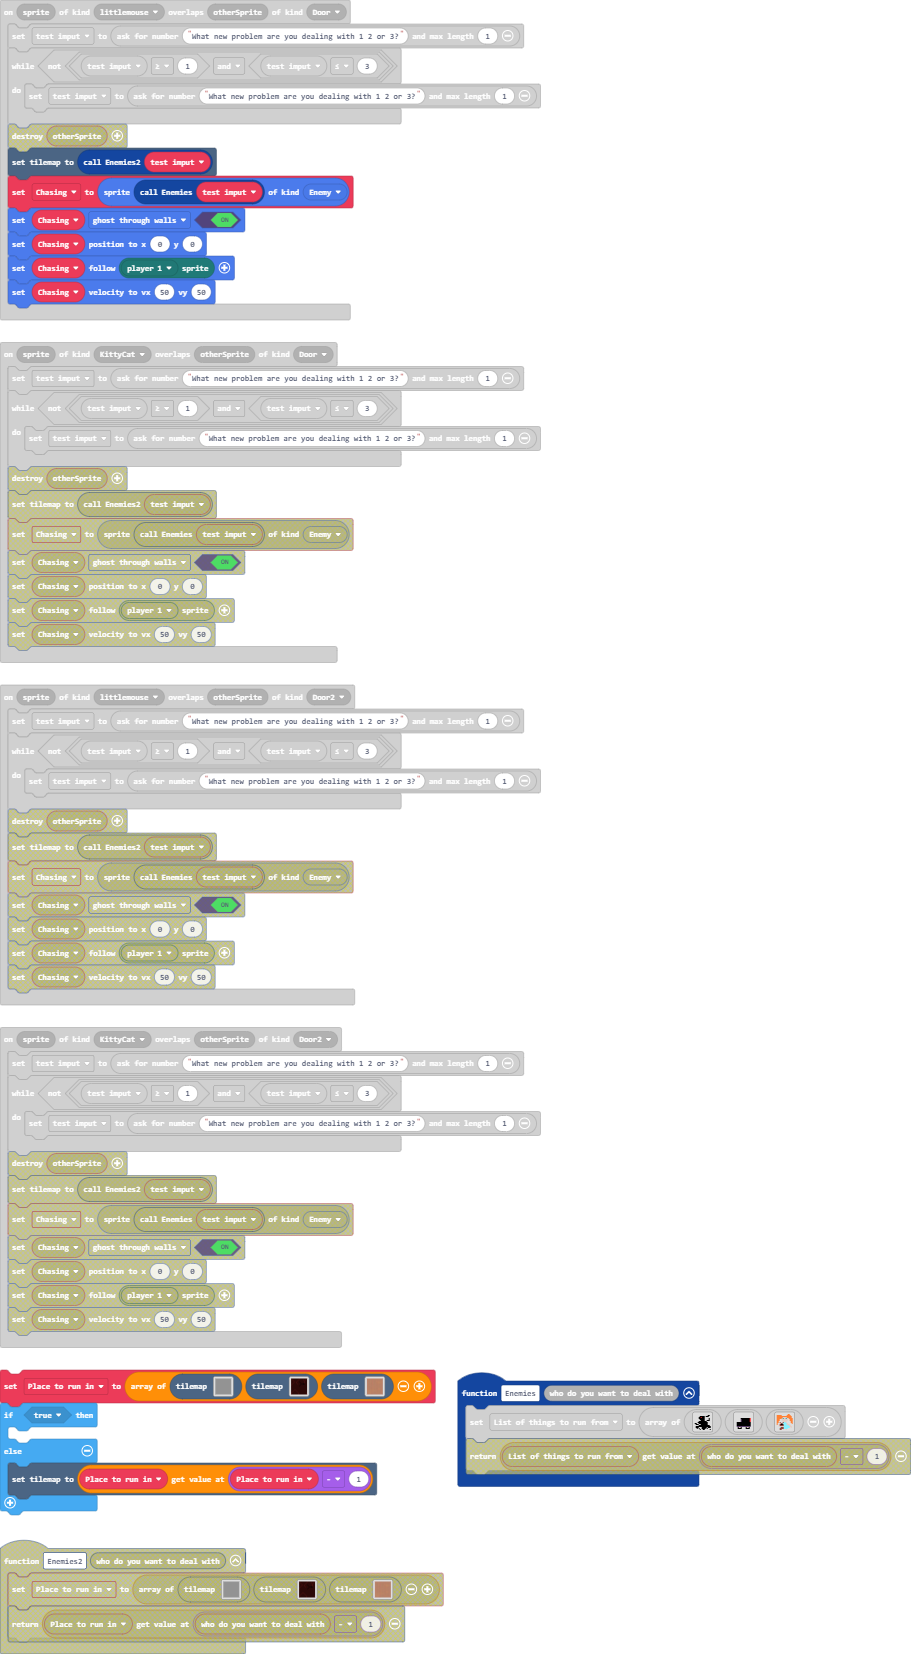
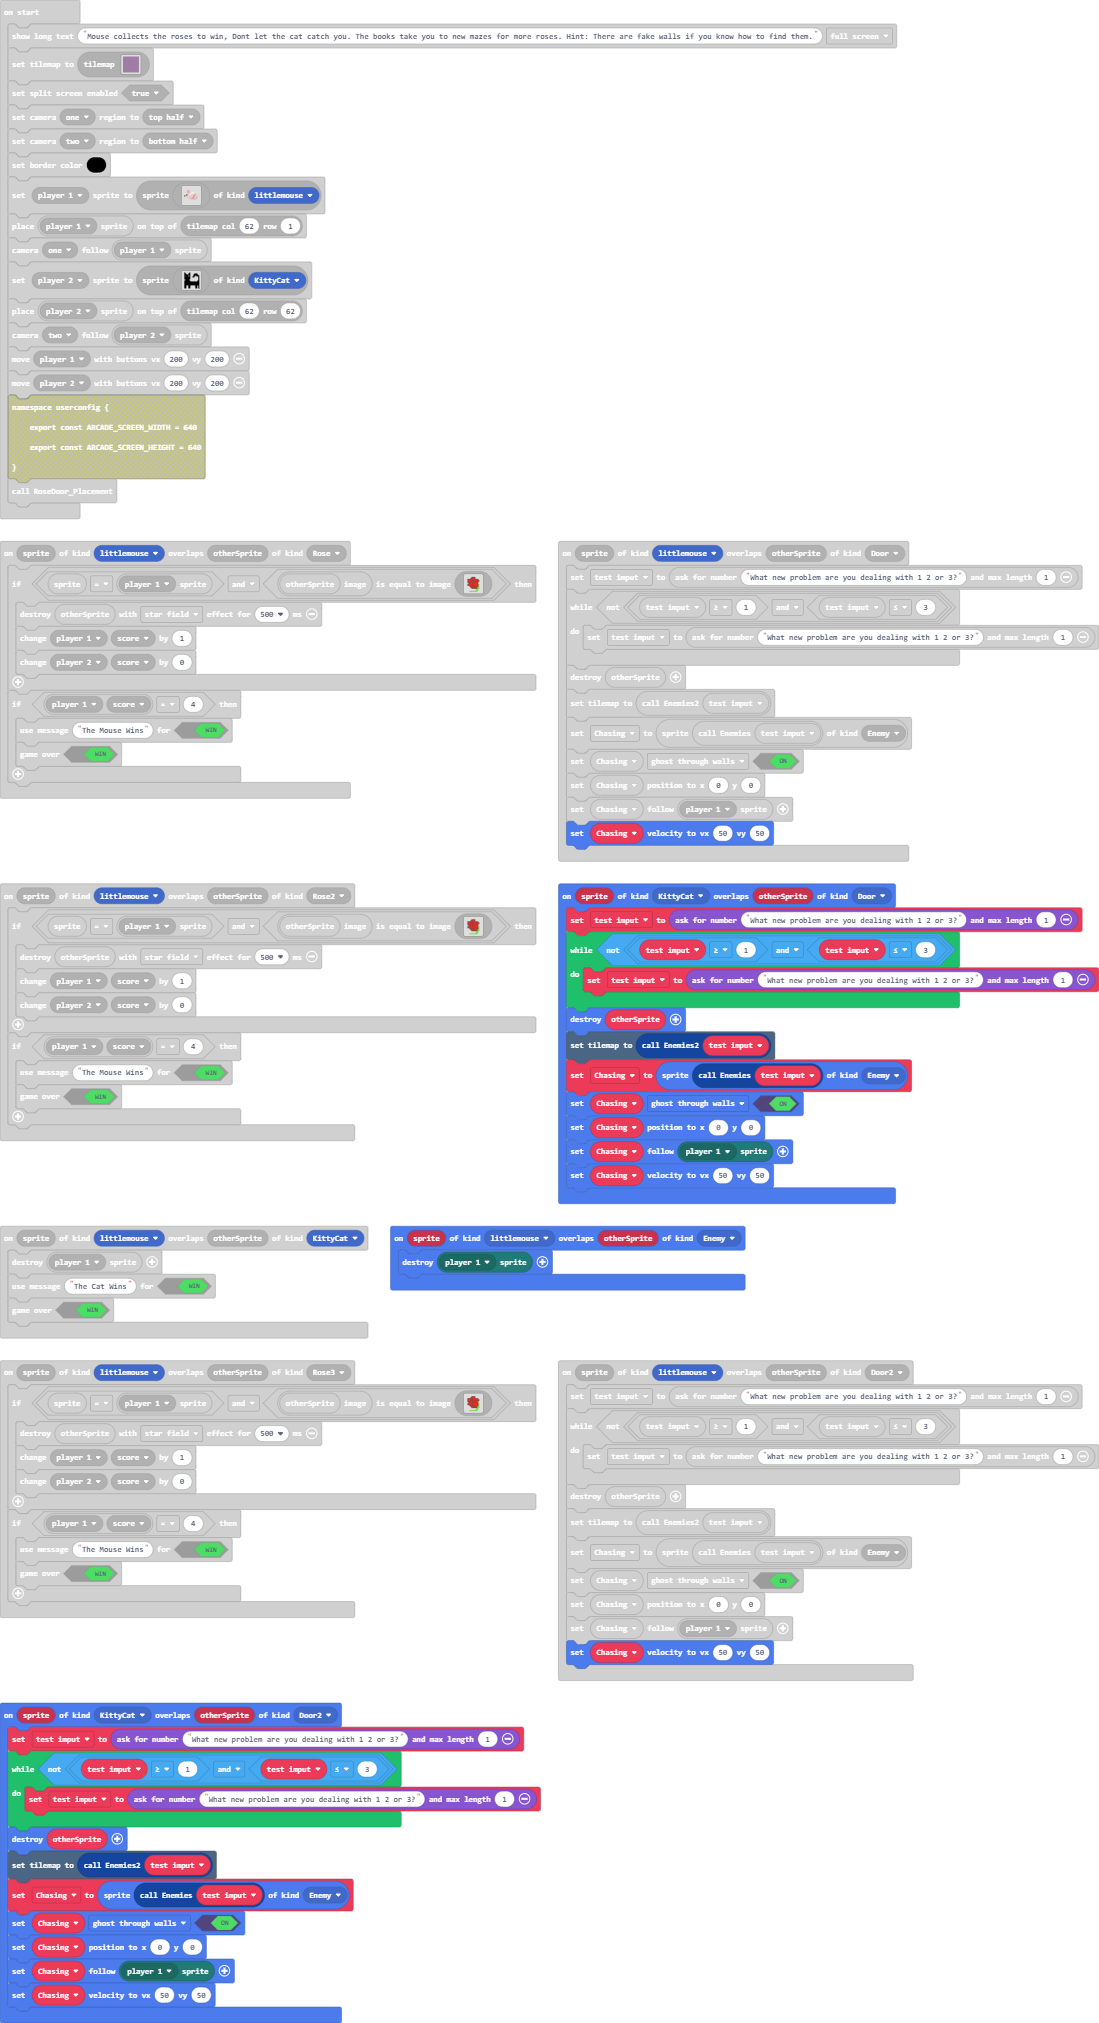
Restore '2/29/2024, 4:26:50 PM New game yay'

diff --git a/tilemap.g.ts b/tilemap.g.ts
@@ -561,101 +561,6 @@ namespace myTiles {
 . . . . . . . . . . . . . . . . 
 . . . . . . . . . . . . . . . . 
 `, [myTiles.transparency16], TileScale.Sixteen);
-            case "level18":
-            case "level18":return tiles.createTilemap(hex`1000100000000000000000000000000000000000000000000000000000000000000000000000000000000000000000000000000000000000000000000000000000000000000000000000000000000000000000000000000000000000000000000000000000000000000000000000000000000000000000000000000000000000000000000000000000000000000000000000000000000000000000000000000000000000000000000000000000000000000000000000000000000000000000000000000000000000000000000000000000000000000000000000000000000000000000000000000000000000000000000000000000000000000000000000000000000000`, img`
-. . . . . . . . . . . . . . . . 
-. . . . . . . . . . . . . . . . 
-. . . . . . . . . . . . . . . . 
-. . . . . . . . . . . . . . . . 
-. . . . . . . . . . . . . . . . 
-. . . . . . . . . . . . . . . . 
-. . . . . . . . . . . . . . . . 
-. . . . . . . . . . . . . . . . 
-. . . . . . . . . . . . . . . . 
-. . . . . . . . . . . . . . . . 
-. . . . . . . . . . . . . . . . 
-. . . . . . . . . . . . . . . . 
-. . . . . . . . . . . . . . . . 
-. . . . . . . . . . . . . . . . 
-. . . . . . . . . . . . . . . . 
-. . . . . . . . . . . . . . . . 
-`, [myTiles.transparency16], TileScale.Sixteen);
-            case "level19":
-            case "level19":return tiles.createTilemap(hex`1000100000000000000000000000000000000000000000000000000000000000000000000000000000000000000000000000000000000000000000000000000000000000000000000000000000000000000000000000000000000000000000000000000000000000000000000000000000000000000000000000000000000000000000000000000000000000000000000000000000000000000000000000000000000000000000000000000000000000000000000000000000000000000000000000000000000000000000000000000000000000000000000000000000000000000000000000000000000000000000000000000000000000000000000000000000000000`, img`
-. . . . . . . . . . . . . . . . 
-. . . . . . . . . . . . . . . . 
-. . . . . . . . . . . . . . . . 
-. . . . . . . . . . . . . . . . 
-. . . . . . . . . . . . . . . . 
-. . . . . . . . . . . . . . . . 
-. . . . . . . . . . . . . . . . 
-. . . . . . . . . . . . . . . . 
-. . . . . . . . . . . . . . . . 
-. . . . . . . . . . . . . . . . 
-. . . . . . . . . . . . . . . . 
-. . . . . . . . . . . . . . . . 
-. . . . . . . . . . . . . . . . 
-. . . . . . . . . . . . . . . . 
-. . . . . . . . . . . . . . . . 
-. . . . . . . . . . . . . . . . 
-`, [myTiles.transparency16], TileScale.Sixteen);
-            case "level20":
-            case "level20":return tiles.createTilemap(hex`1000100000000000000000000000000000000000000000000000000000000000000000000000000000000000000000000000000000000000000000000000000000000000000000000000000000000000000000000000000000000000000000000000000000000000000000000000000000000000000000000000000000000000000000000000000000000000000000000000000000000000000000000000000000000000000000000000000000000000000000000000000000000000000000000000000000000000000000000000000000000000000000000000000000000000000000000000000000000000000000000000000000000000000000000000000000000000`, img`
-. . . . . . . . . . . . . . . . 
-. . . . . . . . . . . . . . . . 
-. . . . . . . . . . . . . . . . 
-. . . . . . . . . . . . . . . . 
-. . . . . . . . . . . . . . . . 
-. . . . . . . . . . . . . . . . 
-. . . . . . . . . . . . . . . . 
-. . . . . . . . . . . . . . . . 
-. . . . . . . . . . . . . . . . 
-. . . . . . . . . . . . . . . . 
-. . . . . . . . . . . . . . . . 
-. . . . . . . . . . . . . . . . 
-. . . . . . . . . . . . . . . . 
-. . . . . . . . . . . . . . . . 
-. . . . . . . . . . . . . . . . 
-. . . . . . . . . . . . . . . . 
-`, [myTiles.transparency16], TileScale.Sixteen);
-            case "level21":
-            case "level21":return tiles.createTilemap(hex`1000100000000000000000000000000000000000000000000000000000000000000000000000000000000000000000000000000000000000000000000000000000000000000000000000000000000000000000000000000000000000000000000000000000000000000000000000000000000000000000000000000000000000000000000000000000000000000000000000000000000000000000000000000000000000000000000000000000000000000000000000000000000000000000000000000000000000000000000000000000000000000000000000000000000000000000000000000000000000000000000000000000000000000000000000000000000000`, img`
-. . . . . . . . . . . . . . . . 
-. . . . . . . . . . . . . . . . 
-. . . . . . . . . . . . . . . . 
-. . . . . . . . . . . . . . . . 
-. . . . . . . . . . . . . . . . 
-. . . . . . . . . . . . . . . . 
-. . . . . . . . . . . . . . . . 
-. . . . . . . . . . . . . . . . 
-. . . . . . . . . . . . . . . . 
-. . . . . . . . . . . . . . . . 
-. . . . . . . . . . . . . . . . 
-. . . . . . . . . . . . . . . . 
-. . . . . . . . . . . . . . . . 
-. . . . . . . . . . . . . . . . 
-. . . . . . . . . . . . . . . . 
-. . . . . . . . . . . . . . . . 
-`, [myTiles.transparency16], TileScale.Sixteen);
-            case "level22":
-            case "level22":return tiles.createTilemap(hex`1000100000000000000000000000000000000000000000000000000000000000000000000000000000000000000000000000000000000000000000000000000000000000000000000000000000000000000000000000000000000000000000000000000000000000000000000000000000000000000000000000000000000000000000000000000000000000000000000000000000000000000000000000000000000000000000000000000000000000000000000000000000000000000000000000000000000000000000000000000000000000000000000000000000000000000000000000000000000000000000000000000000000000000000000000000000000000`, img`
-. . . . . . . . . . . . . . . . 
-. . . . . . . . . . . . . . . . 
-. . . . . . . . . . . . . . . . 
-. . . . . . . . . . . . . . . . 
-. . . . . . . . . . . . . . . . 
-. . . . . . . . . . . . . . . . 
-. . . . . . . . . . . . . . . . 
-. . . . . . . . . . . . . . . . 
-. . . . . . . . . . . . . . . . 
-. . . . . . . . . . . . . . . . 
-. . . . . . . . . . . . . . . . 
-. . . . . . . . . . . . . . . . 
-. . . . . . . . . . . . . . . . 
-. . . . . . . . . . . . . . . . 
-. . . . . . . . . . . . . . . . 
-. . . . . . . . . . . . . . . . 
-`, [myTiles.transparency16], TileScale.Sixteen);
         }
         return null;
     })

diff --git a/main.ts b/main.ts
@@ -61,18 +61,20 @@ function Enemies (who_do_you_want_to_deal_with: number) {
         . . . e e e e 9 9 9 9 . . . . . 
         . . . e e . d . . d . . . . . . 
         `]
-    Place_to_run_in = [tilemap`level13`, tilemap`level15`, tilemap`level16`]
-    if (true) {
-    	
-    } else {
-        tiles.setCurrentTilemap(Place_to_run_in[Place_to_run_in - 1])
-    }
+    return List_of_things_to_run_from[who_do_you_want_to_deal_with - 1]
 }
 sprites.onOverlap(SpriteKind.littlemouse, SpriteKind.Door, function (sprite, otherSprite) {
     test_imput = game.askForNumber("What new problem are you dealing with 1 2 or 3?", 1)
     while (!(test_imput >= 1 && test_imput <= 3)) {
         test_imput = game.askForNumber("What new problem are you dealing with 1 2 or 3?", 1)
     }
+    sprites.destroy(otherSprite)
+    tiles.setCurrentTilemap(Enemies2(test_imput))
+    Chasing = sprites.create(Enemies(test_imput), SpriteKind.Enemy)
+    Chasing.setFlag(SpriteFlag.GhostThroughWalls, true)
+    Chasing.setPosition(0, 0)
+    Chasing.follow(mp.getPlayerSprite(mp.playerSelector(mp.PlayerNumber.One)))
+    Chasing.setVelocity(50, 50)
 })
 sprites.onOverlap(SpriteKind.littlemouse, SpriteKind.Rose2, function (sprite, otherSprite) {
     if (sprite == mp.getPlayerSprite(mp.playerSelector(mp.PlayerNumber.One)) && otherSprite.image.equals(img`
@@ -107,6 +109,13 @@ sprites.onOverlap(SpriteKind.littlemouse, SpriteKind.Door2, function (sprite, ot
     while (!(test_imput >= 1 && test_imput <= 3)) {
         test_imput = game.askForNumber("What new problem are you dealing with 1 2 or 3?", 1)
     }
+    sprites.destroy(otherSprite)
+    tiles.setCurrentTilemap(Enemies2(test_imput))
+    Chasing = sprites.create(Enemies(test_imput), SpriteKind.Enemy)
+    Chasing.setFlag(SpriteFlag.GhostThroughWalls, true)
+    Chasing.setPosition(0, 0)
+    Chasing.follow(mp.getPlayerSprite(mp.playerSelector(mp.PlayerNumber.One)))
+    Chasing.setVelocity(50, 50)
 })
 sprites.onOverlap(SpriteKind.littlemouse, SpriteKind.Enemy, function (sprite, otherSprite) {
     sprites.destroy(mp.getPlayerSprite(mp.playerSelector(mp.PlayerNumber.One)))
@@ -139,17 +148,35 @@ sprites.onOverlap(SpriteKind.littlemouse, SpriteKind.Rose, function (sprite, oth
         game.gameOver(true)
     }
 })
+function Enemies2 (who_do_you_want_to_deal_with: number) {
+    Place_to_run_in = [tilemap`level13`, tilemap`level15`, tilemap`level16`]
+    return Place_to_run_in[who_do_you_want_to_deal_with - 1]
+}
 sprites.onOverlap(SpriteKind.KittyCat, SpriteKind.Door, function (sprite, otherSprite) {
     test_imput = game.askForNumber("What new problem are you dealing with 1 2 or 3?", 1)
     while (!(test_imput >= 1 && test_imput <= 3)) {
         test_imput = game.askForNumber("What new problem are you dealing with 1 2 or 3?", 1)
     }
+    sprites.destroy(otherSprite)
+    tiles.setCurrentTilemap(Enemies2(test_imput))
+    Chasing = sprites.create(Enemies(test_imput), SpriteKind.Enemy)
+    Chasing.setFlag(SpriteFlag.GhostThroughWalls, true)
+    Chasing.setPosition(0, 0)
+    Chasing.follow(mp.getPlayerSprite(mp.playerSelector(mp.PlayerNumber.One)))
+    Chasing.setVelocity(50, 50)
 })
 sprites.onOverlap(SpriteKind.KittyCat, SpriteKind.Door2, function (sprite, otherSprite) {
     test_imput = game.askForNumber("What new problem are you dealing with 1 2 or 3?", 1)
     while (!(test_imput >= 1 && test_imput <= 3)) {
         test_imput = game.askForNumber("What new problem are you dealing with 1 2 or 3?", 1)
     }
+    sprites.destroy(otherSprite)
+    tiles.setCurrentTilemap(Enemies2(test_imput))
+    Chasing = sprites.create(Enemies(test_imput), SpriteKind.Enemy)
+    Chasing.setFlag(SpriteFlag.GhostThroughWalls, true)
+    Chasing.setPosition(0, 0)
+    Chasing.follow(mp.getPlayerSprite(mp.playerSelector(mp.PlayerNumber.One)))
+    Chasing.setVelocity(50, 50)
 })
 sprites.onOverlap(SpriteKind.littlemouse, SpriteKind.KittyCat, function (sprite, otherSprite) {
     sprites.destroy(mp.getPlayerSprite(mp.playerSelector(mp.PlayerNumber.One)))
@@ -291,8 +318,9 @@ let Rose_2: Sprite = null
 let Rose_1: Sprite = null
 let Book_2: Sprite = null
 let Book_1: Sprite = null
-let test_imput = 0
 let Place_to_run_in: tiles.TileMapData[] = []
+let Chasing: Sprite = null
+let test_imput = 0
 let List_of_things_to_run_from: Image[] = []
 game.showLongText("Mouse collects the roses to win, Dont let the cat catch you. The books take you to new mazes for more roses. Hint: There are fake walls if you know how to find them.", DialogLayout.Full)
 tiles.setCurrentTilemap(tilemap`level1`)
